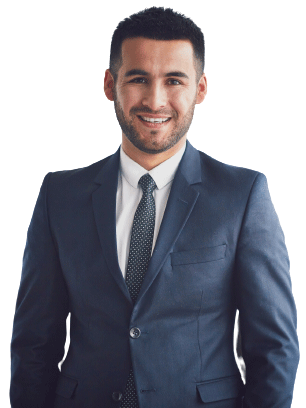
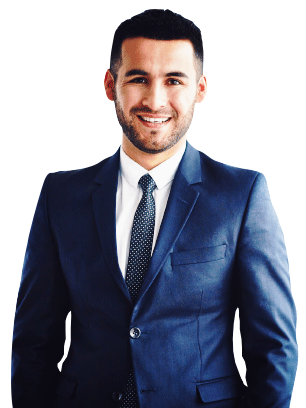
Adddd

diff --git a/src/components/organisms/Footer/Footer.jsx b/src/components/organisms/Footer/Footer.jsx
@@ -11,7 +11,7 @@ import { footerOrder } from '../../../constants'
 import menuList from '../../../../public/assets/json/menuList.json'
 import whiteStripes from '../../../../public/assets/icons/lines-white.svg'
 import rings from '../../../../public/assets/icons/ring.svg'
-import logo from '../../../../public/assets/icons/aanoor-logo.svg'
+import logo from '../../../../public/assets/icons/aanoor-logo-white.svg'
 import facebook from '../../../../public/assets/icons/facebook.png'
 import linkedin from '../../../../public/assets/icons/linkedin.png'
 import twitter from '../../../../public/assets/icons/twitter.png'
@@ -19,14 +19,14 @@ import twitter from '../../../../public/assets/icons/twitter.png'
 import './Footer.scss'
 
 let servicelist = []
-let primarylist = []
+// let primarylist = []
 
 const Footer = () => {
   useMemo(() => {
     // servicelist = menuList?.data.filter((menu) => menu.title === 'Services')[0]
     //   ?.children
     servicelist = menuList?.serviceData
-    primarylist = menuList?.data.filter((menu) => menu.title !== 'Services')
+    // primarylist = menuList?.data.filter((menu) => menu.title !== 'Services')
     servicelist.forEach((element, index) => {
       if (Array.isArray(element)) {
         servicelist.push(...element)
@@ -50,7 +50,8 @@ const Footer = () => {
               >
                 <img src={logo} alt="Aanoor Logo" />
               </div>
-              <div className="primary-link d-flex text-white pt-4 px-3">
+              {/* Commented below code for Removing About and contact page */}
+              {/* <div className="primary-link d-flex text-white pt-4 px-3">
                 {primarylist.map((list, index) => (
                   <Link
                     className="px-3"
@@ -62,7 +63,7 @@ const Footer = () => {
                     {list.title}
                   </Link>
                 ))}
-              </div>
+              </div> */}
             </div>
             <div className="social-link-cont d-flex align-items-center pt-4">
               <div data-aos="fade-up" data-aos-delay="250">

diff --git a/src/components/atoms/SPBenefits/SPBenefits.scss b/src/components/atoms/SPBenefits/SPBenefits.scss
@@ -68,7 +68,7 @@
 }
 
 .full-panel-template {
-  .benefits-cont {
+  > .benefits-cont {
     h4,
     h3,
     p {
@@ -76,7 +76,7 @@
     }
   }
 }
-.registration {
+.service-page-cont.registration {
   .benefits-cont {
     padding-top: 20px !important;
     margin-bottom: 10px !important;
@@ -128,14 +128,18 @@
     }
   }
 }
-.statuary-compliance {
+.service-page-cont.statuary-compliance {
   .benefits-cont {
+    margin-bottom: 40px !important;
+    margin-top: 20px !important;
     h3 {
-      color: $ag-green !important;
+      // color: $ag-green !important;
+      color: white !important;
       // text-align: center;
     }
     .benefits-desc {
       // text-align: center;
+      color: white;
     }
     .benefits-ul {
       border-radius: 20px;
@@ -173,7 +177,7 @@
     }
   }
 }
-.certification {
+.service-page-cont.certification {
   .benefits-cont {
     .benefits-desc {
       margin-bottom: 10px !important;
@@ -203,7 +207,7 @@
   }
 }
 @media (max-width: 767.98px) {
-  .certification {
+  .service-page-cont.certification {
     .benefits-cont {
       .benefits-desc {
         margin-bottom: 10px !important;

diff --git a/src/pages/ServicePage/ServicePage.scss b/src/pages/ServicePage/ServicePage.scss
@@ -25,12 +25,15 @@ h3 {
         .container {
           // max-width: 1375px !important;
         }
+        &:last-child {
+          margin-bottom: 0 !important;
+        }
       }
     }
   }
 }
 
-.startup-center {
+.service-page-cont.startup-center {
   .service-content-cont {
     background-color: white;
     border-radius: $ag-border-radius;
@@ -43,7 +46,7 @@ h3 {
     }
   }
 }
-.intellectual-property {
+.service-page-cont.intellectual-property {
   background-color: $ag-darkblue;
   .serivce-details-cont {
     margin-top: 0px !important;
@@ -69,9 +72,9 @@ h3 {
     }
   }
 }
-.registration,
-.certification,
-.statuary-compliance {
+.service-page-cont.registration,
+.service-page-cont.certification,
+.service-page-cont.statuary-compliance {
   background-color: $ag-darkblue;
   .serivce-details-cont {
     margin-top: 0px !important;
@@ -108,7 +111,7 @@ h3 {
     }
   }
 }
-.statuary-compliance {
+.service-page-cont.statuary-compliance {
   .serivce-details-cont {
     .service-content-cont {
       .component-cont {

diff --git a/src/components/atoms/SPDocuments/SPDocuments.scss b/src/components/atoms/SPDocuments/SPDocuments.scss
@@ -100,7 +100,7 @@
     }
   }
 }
-.intellectual-property {
+.service-page-cont.intellectual-property {
   .document-cont {
     margin-top: 0;
     margin-bottom: 0 !important;
@@ -111,7 +111,7 @@
     }
   }
 }
-.registration {
+.service-page-cont.registration {
   .document-cont {
     margin-top: 65px;
     background-color: $ag-darkblue;
@@ -152,7 +152,7 @@
     }
   }
 }
-.certification {
+.service-page-cont.certification {
   .document-cont {
     margin-top: 65px;
     .title-cont {
@@ -174,7 +174,7 @@
     }
   }
 }
-.statuary-compliance {
+.service-page-cont.statuary-compliance {
   .SPDocuments {
     background-color: white;
     margin-bottom: 25px;

diff --git a/src/components/atoms/SPStep/SPStep.scss b/src/components/atoms/SPStep/SPStep.scss
@@ -28,7 +28,7 @@
     color: $ag-white;
   }
 }
-.startup-center {
+.service-page-cont.startup-center {
   .step-cont {
     .step-count {
       color: $ag-lightblue;
@@ -36,7 +36,7 @@
     }
   }
 }
-.statuary-compliance {
+.service-page-cont.statuary-compliance {
   .SPStep {
     overflow: hidden;
     .step-cont {
@@ -86,7 +86,7 @@
 }
 
 @media (max-width: 575.98px) {
-  .statuary-compliance {
+  .service-page-cont.statuary-compliance {
     .SPStep {
       .step-cont {
         > div {

diff --git a/src/components/molecules/ServicePageSidePanel/ServicePageSidePanel.scss b/src/components/molecules/ServicePageSidePanel/ServicePageSidePanel.scss
@@ -11,8 +11,8 @@
       padding: 10px 20px;
       display: block;
       margin-bottom: 0;
-      font-weight: 500;
-      font-size: 1.3rem;
+      font-weight: 600;
+      font-size: 1.1rem;
       text-transform: capitalize;
       transition: 0.1s ease-in-out;
     }
@@ -22,7 +22,7 @@
     &.active {
       background-color: $ag-gray-dark !important;
       a {
-        font-weight: 600 !important;
+        font-weight: 700 !important;
       }
     }
   }

diff --git a/src/components/organisms/Footer/Footer.scss b/src/components/organisms/Footer/Footer.scss
@@ -7,10 +7,10 @@
   .primary-links-cont {
     .logo-cont {
       width: 110px;
-      background-color: white;
-      border-radius: 8px;
-      text-align: center;
-      padding: 3px 0;
+      // background-color: white;
+      // border-radius: 8px;
+      // text-align: center;
+      // padding: 3px 0;
       img {
         height: 40px;
       }

diff --git a/src/pages/ServicePage/ServicePage.jsx b/src/pages/ServicePage/ServicePage.jsx
@@ -38,7 +38,7 @@ const ServicePage = () => {
   return serviceDetails ? (
     <>
       <HelmetWrapper data={metaDetails} />
-      <div className={category}>
+      <div className={`service-page-cont ${category}`}>
         <ServiceHeroBanner
           title={serviceDetails.title}
           desc={serviceDetails.description}

diff --git a/src/components/organisms/HomeLandingSection/HomeLandingSection.scss b/src/components/organisms/HomeLandingSection/HomeLandingSection.scss
@@ -37,6 +37,7 @@
         width: 30%;
         right: 0;
         top: 0;
+        background-image: linear-gradient(to right, #9fdb0e, #c4fc3d);
         border-radius: 0 20px 20px 0;
       }
     }

diff --git a/src/pages/Sitemap/Sitemap.scss b/src/pages/Sitemap/Sitemap.scss
@@ -16,7 +16,8 @@
   h3,
   h4,
   h5 {
-    width: fit-content;
+    // width: fit-content;
+    width: max-content;
     padding: 5px 20px;
     border-radius: 15px;
     a {

diff --git a/src/components/atoms/SPIncludes/SPIncludes.scss b/src/components/atoms/SPIncludes/SPIncludes.scss
@@ -33,7 +33,7 @@
     }
   }
 }
-.statuary-compliance {
+.service-page-cont.statuary-compliance {
   .component-cont.includes {
     > div {
       .includes-cont {

diff --git a/src/App.scss b/src/App.scss
@@ -245,7 +245,7 @@ a {
 
 // Scroll Bar css
 ::-webkit-scrollbar {
-  width: 15px;
+  width: 10px;
   height: 20px;
   border-radius: 10px;
 }
